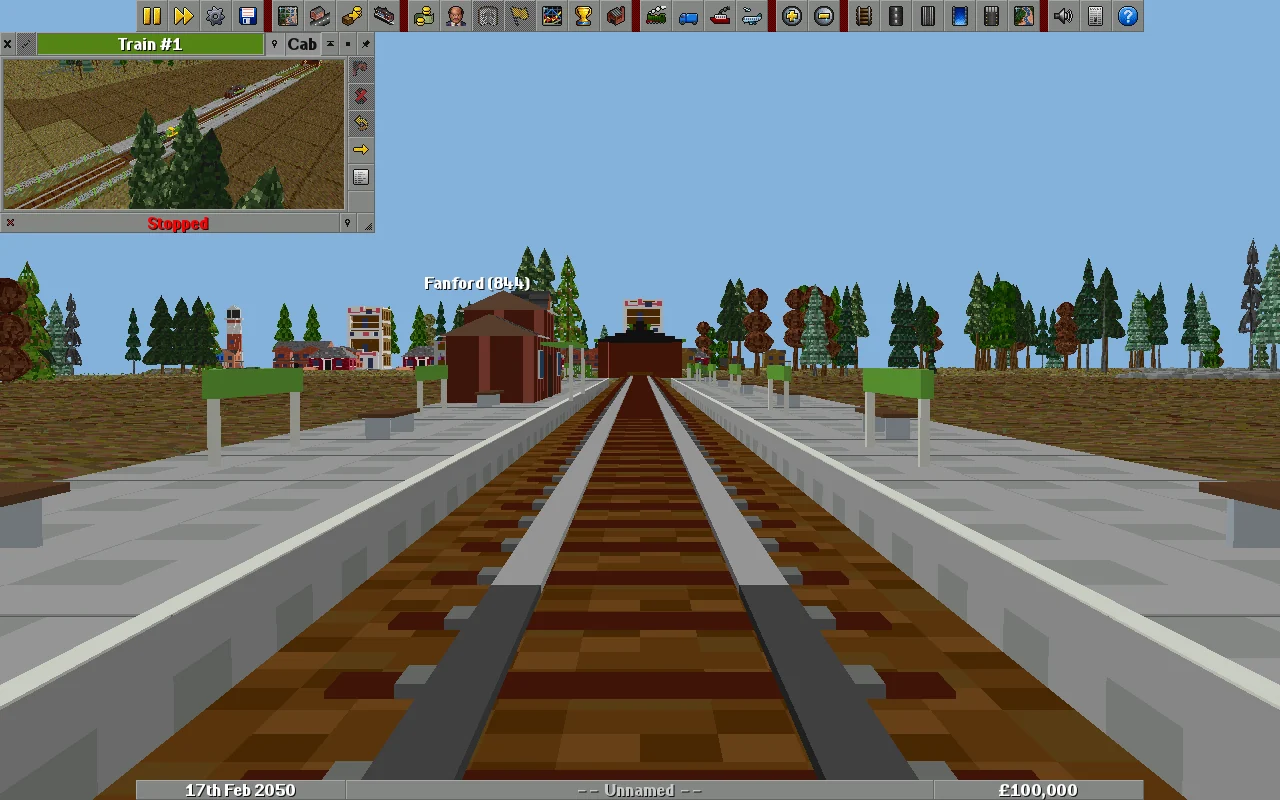
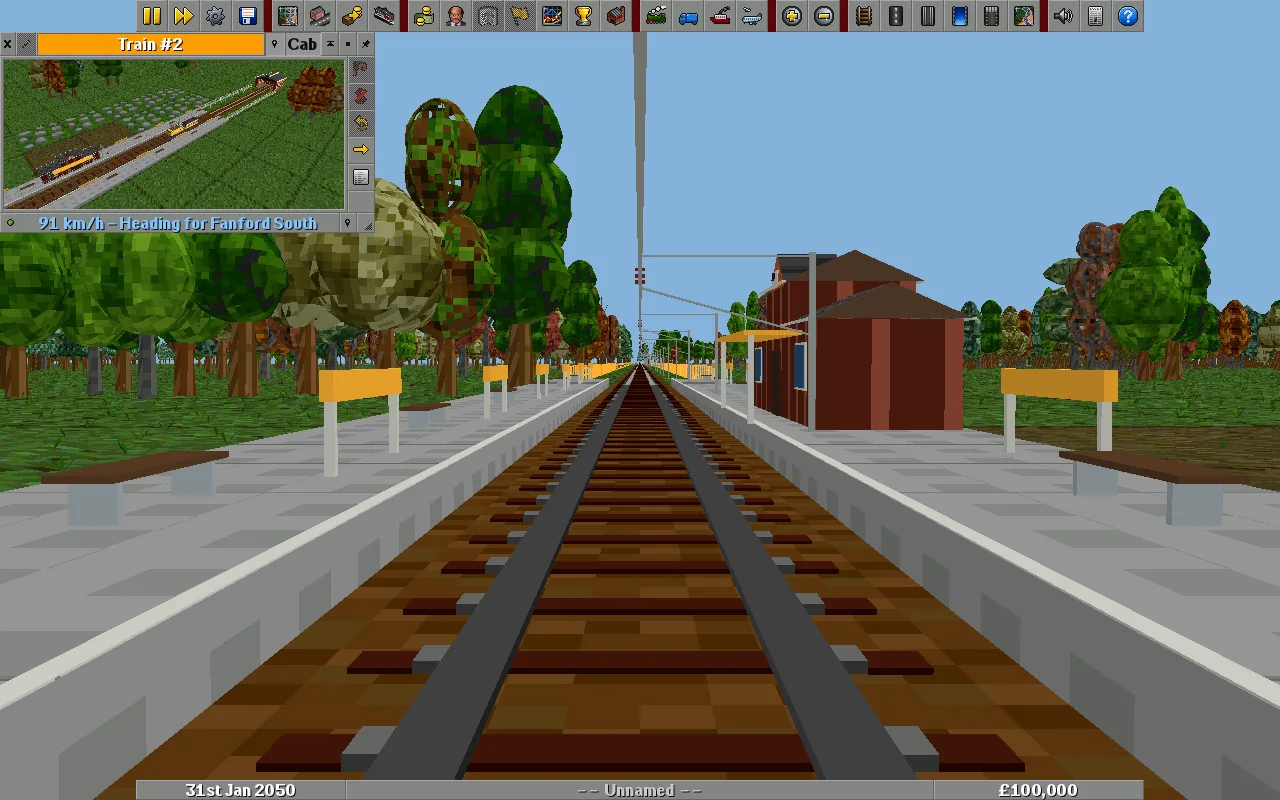
Refresh README screenshots from current 3D build

diff --git a/tools/opentt3d/smoke.py b/tools/opentt3d/smoke.py
@@ -136,6 +136,7 @@ def main():
     parser.add_argument("--town-count", type=int, help="Use the normal custom town count when generating a review world")
     parser.add_argument("--city-size", type=int, choices=range(1,11), help="New review world: make every town a city with this normal initial size multiplier")
     parser.add_argument("--climate", choices=("temperate", "arctic", "tropic", "toyland"))
+    parser.add_argument("--industry-density", type=int, choices=range(5), help="New review world: normal industry density, including 0 for no industries")
     parser.add_argument("--savegame", type=Path)
     parser.add_argument("--ai-dir", type=Path, help="Stage a fixture's local AI scripts alongside the isolated save")
     parser.add_argument("--newgrf-dir", type=Path, help="Stage the NewGRF files required by a fixture save")
@@ -490,6 +491,9 @@ server_advertise = false
     if args.climate:
         config = output / "openttd.cfg"
         config.write_text(config.read_text().replace("[game_creation]", f"[game_creation]\nlandscape = {args.climate}"))
+    if args.industry_density is not None:
+        config = output / "openttd.cfg"
+        config.write_text(config.read_text() + f"\n[difficulty]\nindustry_density = {args.industry_density}\n")
     if args.infinite_water:
         config = output / "openttd.cfg"
         config.write_text(config.read_text() + "\n[construction]\nfreeform_edges = false\n")

diff --git a/README.md b/README.md
@@ -57,14 +57,14 @@ optional sound/music.
 
 | | |
 | :---: | :---: |
-| [![A dense temperate city in the rotatable 3D world](docs/screenshots/hero-city.webp)](docs/screenshots/hero-city.webp) | [![A temperate river, farms and a town](docs/screenshots/temperate-river.webp)](docs/screenshots/temperate-river.webp) |
-| *A working city with real building, road and roof relief.* | *River banks, fields and hills in the fixed 40° world camera.* |
-| [![Snow-covered Arctic forest, lake and town](docs/screenshots/arctic-landscape.webp)](docs/screenshots/arctic-landscape.webp) | [![Toyland's colourful 3D scenery](docs/screenshots/toyland-parade.webp)](docs/screenshots/toyland-parade.webp) |
-| *Arctic snow, conifers and a frozen shoreline.* | *Toyland's full colour range, with 3D trees and buildings.* |
-| [![A drive-through bus stop whose asphalt matches the road](docs/screenshots/bus-stop-ground.webp)](docs/screenshots/bus-stop-ground.webp) | [![A stone-lined canal with a launch](docs/screenshots/canal-quay.webp)](docs/screenshots/canal-quay.webp) |
-| *Bus-stop lanes now sample the adjoining road surface.* | *Canal edges are stepped stone quays instead of flat borders.* |
-| [![A train cab view at a station](docs/screenshots/train-cab.webp)](docs/screenshots/train-cab.webp) | [![A close view of a 3D bank with a centred cupola](docs/screenshots/bank-cupola.webp)](docs/screenshots/bank-cupola.webp) |
-| *First-person following with the same fixed lens.* | *Joined bank bodies keep the cupola centred across the tile seam.* |
+| [![A dense temperate city with canal bridges in the rotatable 3D world](docs/screenshots/hero-city.webp)](docs/screenshots/hero-city.webp) | [![A temperate river, fields and towns](docs/screenshots/temperate-river.webp)](docs/screenshots/temperate-river.webp) |
+| *A working city with real building, bridge and roof relief.* | *River banks, fields and towns in the fixed 40° world camera.* |
+| [![Snow-covered Arctic forest and a river](docs/screenshots/arctic-landscape.webp)](docs/screenshots/arctic-landscape.webp) | [![Toyland's colourful 3D scenery](docs/screenshots/toyland-parade.webp)](docs/screenshots/toyland-parade.webp) |
+| *Arctic snow, conifers and a river through the forest.* | *Toyland's full colour range, with 3D trees and buildings.* |
+| [![A drive-through bus stop whose asphalt matches the road](docs/screenshots/bus-stop-ground.webp)](docs/screenshots/bus-stop-ground.webp) | [![A short-span bridge over a stone-lined canal with a ship beneath it](docs/screenshots/canal-quay.webp)](docs/screenshots/canal-quay.webp) |
+| *Bus-stop lanes sample the adjoining road surface.* | *A short-span road bridge over stepped stone canal quays.* |
+| [![A train cab view at a station](docs/screenshots/train-cab.webp)](docs/screenshots/train-cab.webp) | [![A close view of a finished 3D bank facade](docs/screenshots/bank-cupola.webp)](docs/screenshots/bank-cupola.webp) |
+| *First-person following with the same fixed lens.* | *A finished bank facade and roof at street level.* |
 
 ## Camera controls
 
